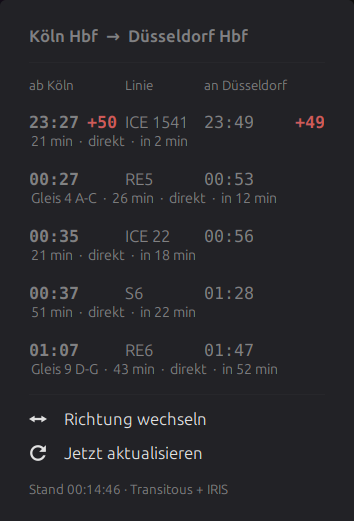
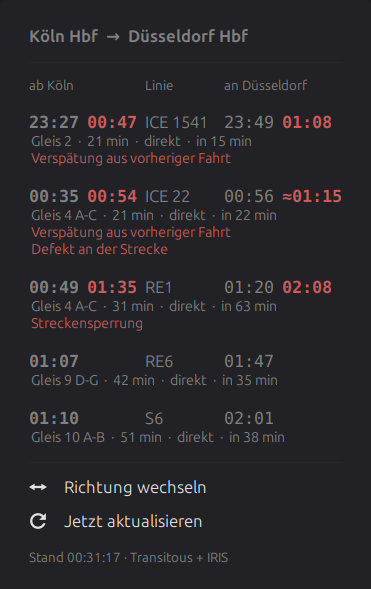
Refresh the screenshot and drop a sentence that said the same thing twice

Changed region(s): [[0.0621, 0.1228, 0.9322, 0.952], [0.0621, 0.0307, 0.7147, 0.0921], [0.8701, 0.3071, 0.9322, 0.3685]]

diff --git a/README.md b/README.md
@@ -18,10 +18,9 @@ warning sign.
 The menu shows the next connections in a table. Each row gives the scheduled
 departure, the real departure, the line, the scheduled arrival and the real
 arrival. A real time appears only when the train is late, and it is red. The
-column header names the station above both of its times. The second line of each row
-gives the platform, the travel time, the number of transfers, and the time
-until departure. The column headers name the station that each time belongs to,
-so you cannot confuse a departure with an arrival.
+column header names the station above both of its times, so you cannot confuse
+a departure with an arrival. The second line of each row gives the platform,
+the travel time, the number of transfers, and the time until departure.
 
 The list is not tied to a fixed hour. Trains that have left drop out of the
 list every 20 seconds, without a new request to the servers.
